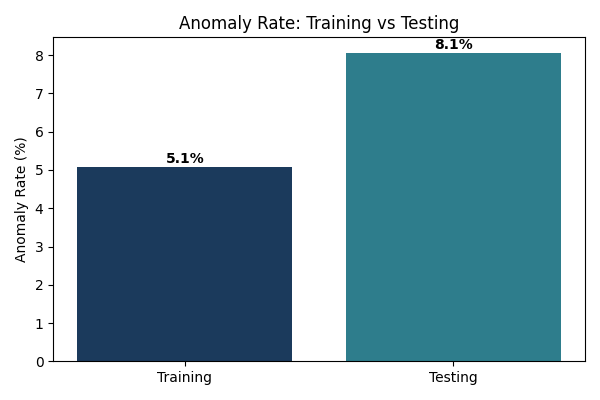
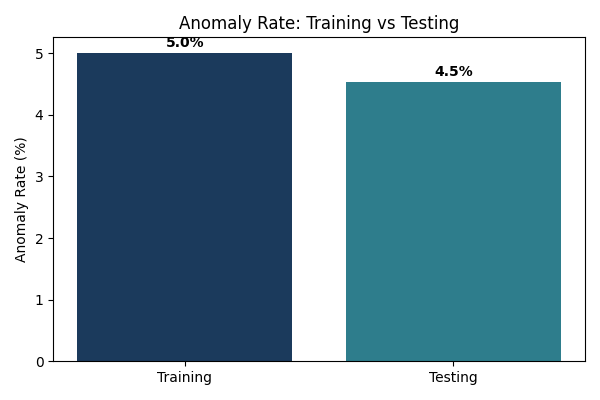
Fix duplicate dataset and update model results

diff --git a/ml/generate_large_dataset.py b/ml/generate_large_dataset.py
@@ -1,0 +1,188 @@
+"""
+generate_large_dataset.py
+
+Generates a large, realistic historical SNMP dataset (2000+ rows) covering:
+- Normal daytime/nighttime/weekend variation (the bulk of the data)
+- Every major anomaly category, so the model learns a genuinely diverse
+  notion of "unusual": CPU overload, memory leaks, interface error bursts,
+  combined multi-metric failures, and time-inappropriate spikes.
+"""
+
+import sqlite3
+import random
+from datetime import datetime, timedelta
+
+conn = sqlite3.connect("../network_monitor.db")
+cursor = conn.cursor()
+
+rows = []
+base_time = datetime.now() - timedelta(days=30)  # spread across 30 days of history
+
+
+def add_row(timestamp, cpu, mem_used, mem_total, in_err, out_err):
+    rows.append((
+        "127.0.0.1",
+        timestamp.isoformat(),
+        int(max(0, min(100, cpu))),
+        int(max(0, mem_used)),
+        int(mem_total),
+        int(max(0, in_err)),
+        int(max(0, out_err)),
+    ))
+
+
+# ============================================================
+# PART 1: NORMAL DATA — realistic day/night/weekend variation
+# ~1800 rows, one every ~24 minutes across 30 days
+# ============================================================
+minute_step = 24
+n_normal = 1800
+
+for i in range(n_normal):
+    timestamp = base_time + timedelta(minutes=i * minute_step)
+    hour = timestamp.hour
+    is_weekend = timestamp.weekday() >= 5
+
+    if is_weekend:
+        cpu = random.gauss(20, 5)
+        mem_used = random.gauss(2400, 200)
+    elif 9 <= hour <= 18:
+        cpu = random.gauss(45, 7)
+        mem_used = random.gauss(3400, 250)
+    elif 6 <= hour < 9 or 18 < hour <= 22:
+        cpu = random.gauss(30, 6)         # transitional hours, moderate load
+        mem_used = random.gauss(2900, 200)
+    else:
+        cpu = random.gauss(15, 4)          # deep night
+        mem_used = random.gauss(2200, 150)
+
+    mem_total = 8192
+
+    # small, realistic background noise in error counters
+    in_err = random.gauss(1200, 60) if random.random() > 0.05 else random.gauss(1300, 80)
+    out_err = random.gauss(300, 25)
+
+    add_row(timestamp, cpu, mem_used, mem_total, in_err, out_err)
+
+
+# ============================================================
+# PART 2: ANOMALIES — every major category, spread realistically
+# ~220 rows total (roughly matching a ~11% overall anomaly rate,
+# intentionally on the richer side so the model sees good variety)
+# ============================================================
+anomaly_start = base_time + timedelta(days=2)
+
+
+def anomaly_time(offset_minutes):
+    return anomaly_start + timedelta(minutes=offset_minutes)
+
+
+# ---- Category A: CPU overload spikes (sudden, extreme, short-lived) ----
+for i in range(35):
+    t = anomaly_time(i * 900 + random.randint(0, 400))
+    add_row(t,
+            cpu=random.uniform(92, 100),
+            mem_used=random.gauss(3500, 300),
+            mem_total=8192,
+            in_err=random.gauss(1250, 80),
+            out_err=random.gauss(310, 30))
+
+# ---- Category B: Memory leak pattern (high memory, CPU stays normal) ----
+for i in range(35):
+    t = anomaly_time(i * 950 + 300)
+    add_row(t,
+            cpu=random.gauss(35, 6),
+            mem_used=random.uniform(7200, 8100),   # memory nearly full
+            mem_total=8192,
+            in_err=random.gauss(1220, 70),
+            out_err=random.gauss(305, 25))
+
+# ---- Category C: Interface in-error burst (network/cable issue) ----
+for i in range(35):
+    t = anomaly_time(i * 970 + 600)
+    add_row(t,
+            cpu=random.gauss(30, 8),
+            mem_used=random.gauss(2800, 300),
+            mem_total=8192,
+            in_err=random.uniform(4500, 8000),      # error spike
+            out_err=random.gauss(320, 40))
+
+# ---- Category D: Interface out-error burst (outgoing path issue) ----
+for i in range(30):
+    t = anomaly_time(i * 1010 + 900)
+    add_row(t,
+            cpu=random.gauss(28, 7),
+            mem_used=random.gauss(2700, 250),
+            mem_total=8192,
+            in_err=random.gauss(1230, 70),
+            out_err=random.uniform(3800, 7000))
+
+# ---- Category E: Combined catastrophic failure (everything spikes together) ----
+for i in range(25):
+    t = anomaly_time(i * 1100 + 1200)
+    add_row(t,
+            cpu=random.uniform(90, 100),
+            mem_used=random.uniform(7500, 8150),
+            mem_total=8192,
+            in_err=random.uniform(5000, 9000),
+            out_err=random.uniform(4000, 7500))
+
+# ---- Category F: Time-inappropriate load (business-level CPU at 2-4 AM) ----
+for i in range(30):
+    day_offset = i * 3
+    t = anomaly_start + timedelta(days=day_offset, hours=random.choice([2, 3, 4]),
+                                   minutes=random.randint(0, 59))
+    add_row(t,
+            cpu=random.uniform(55, 80),   # normal for daytime, abnormal at night
+            mem_used=random.gauss(3600, 300),
+            mem_total=8192,
+            in_err=random.gauss(1240, 80),
+            out_err=random.gauss(315, 30))
+
+# ---- Category G: Sudden idle drop (device appears to go unusually quiet) ----
+for i in range(20):
+    t = anomaly_time(i * 1200 + 1500)
+    add_row(t,
+            cpu=random.uniform(0, 3),
+            mem_used=random.uniform(1500, 1800),
+            mem_total=8192,
+            in_err=random.gauss(1100, 50),
+            out_err=random.gauss(280, 20))
+
+# ---- Category H: Slow degradation ramp (gradual creep toward failure) ----
+ramp_start = anomaly_start + timedelta(days=10)
+for i in range(20):
+    progress = i / 20
+    t = ramp_start + timedelta(minutes=i * 15)
+    add_row(t,
+            cpu=random.gauss(40 + progress * 55, 5),
+            mem_used=random.gauss(3000 + progress * 4500, 200),
+            mem_total=8192,
+            in_err=random.gauss(1200 + progress * 3000, 100),
+            out_err=random.gauss(300 + progress * 900, 40))
+
+print(f"Prepared {len(rows)} rows ({n_normal} normal, {len(rows) - n_normal} anomalous across 8 categories)")
+
+# ============================================================
+# INSERT INTO DATABASE
+# ============================================================
+cursor.executemany("""
+    INSERT INTO readings (device, collected_at, cpu, memory_used, memory_total, interface_in_errors, interface_out_errors)
+    VALUES (?, ?, ?, ?, ?, ?, ?)
+""", rows)
+
+conn.commit()
+conn.close()
+
+print(f"Inserted {len(rows)} rows into network_monitor.db")
+print("\nAnomaly categories included:")
+print("  A. CPU overload spikes")
+print("  B. Memory leak pattern (high memory, normal CPU)")
+print("  C. Interface incoming-error bursts")
+print("  D. Interface outgoing-error bursts")
+print("  E. Combined catastrophic failure (all metrics spike together)")
+print("  F. Time-inappropriate load (business-level activity at 2-4 AM)")
+print("  G. Sudden idle drop (device goes abnormally quiet)")
+print("  H. Slow degradation ramp (gradual creep toward failure)")
+
+
